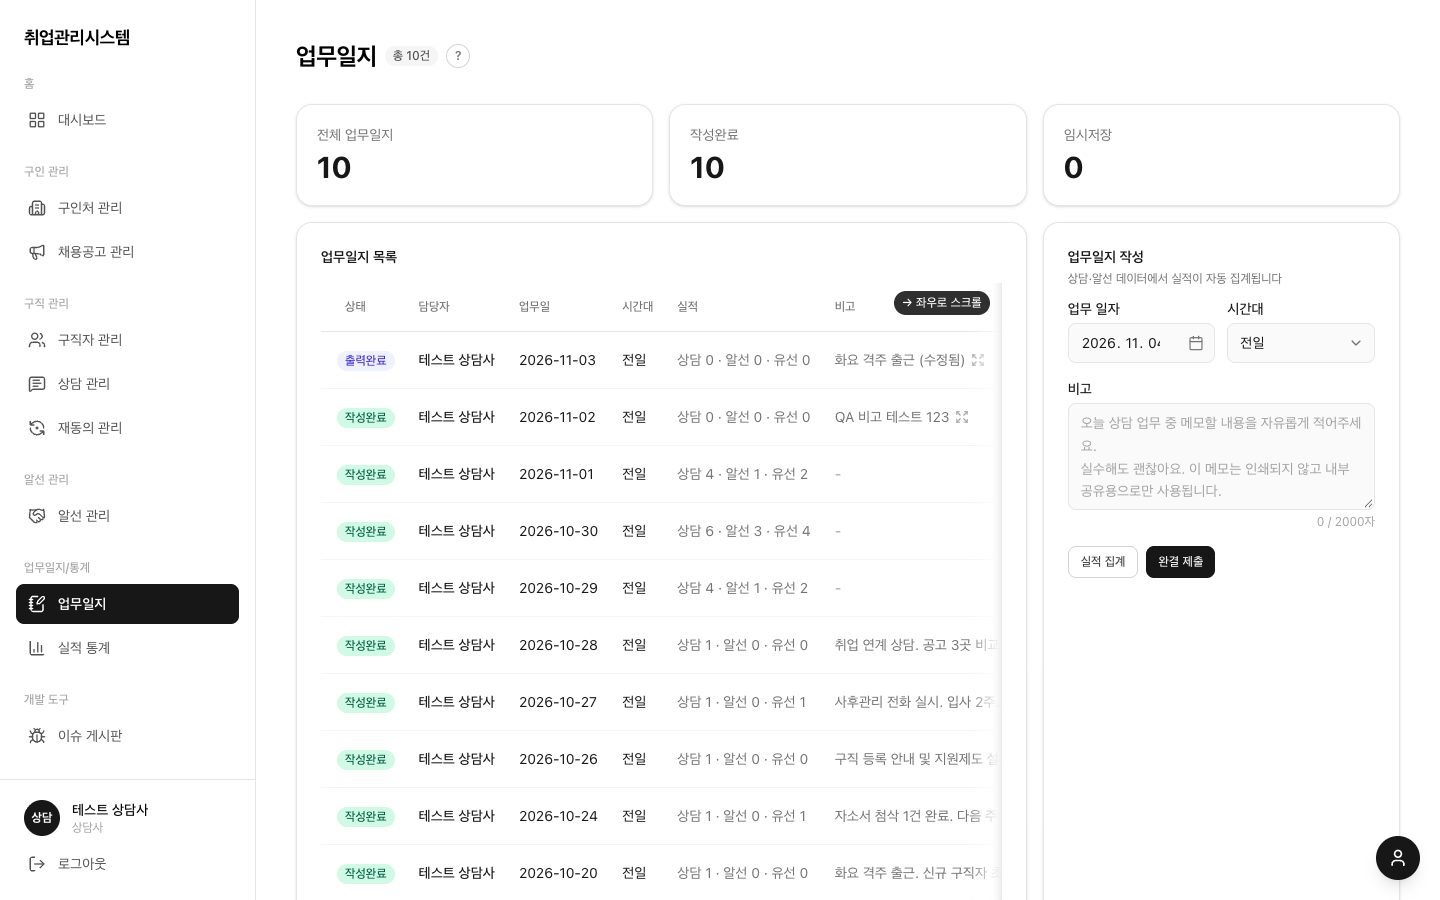
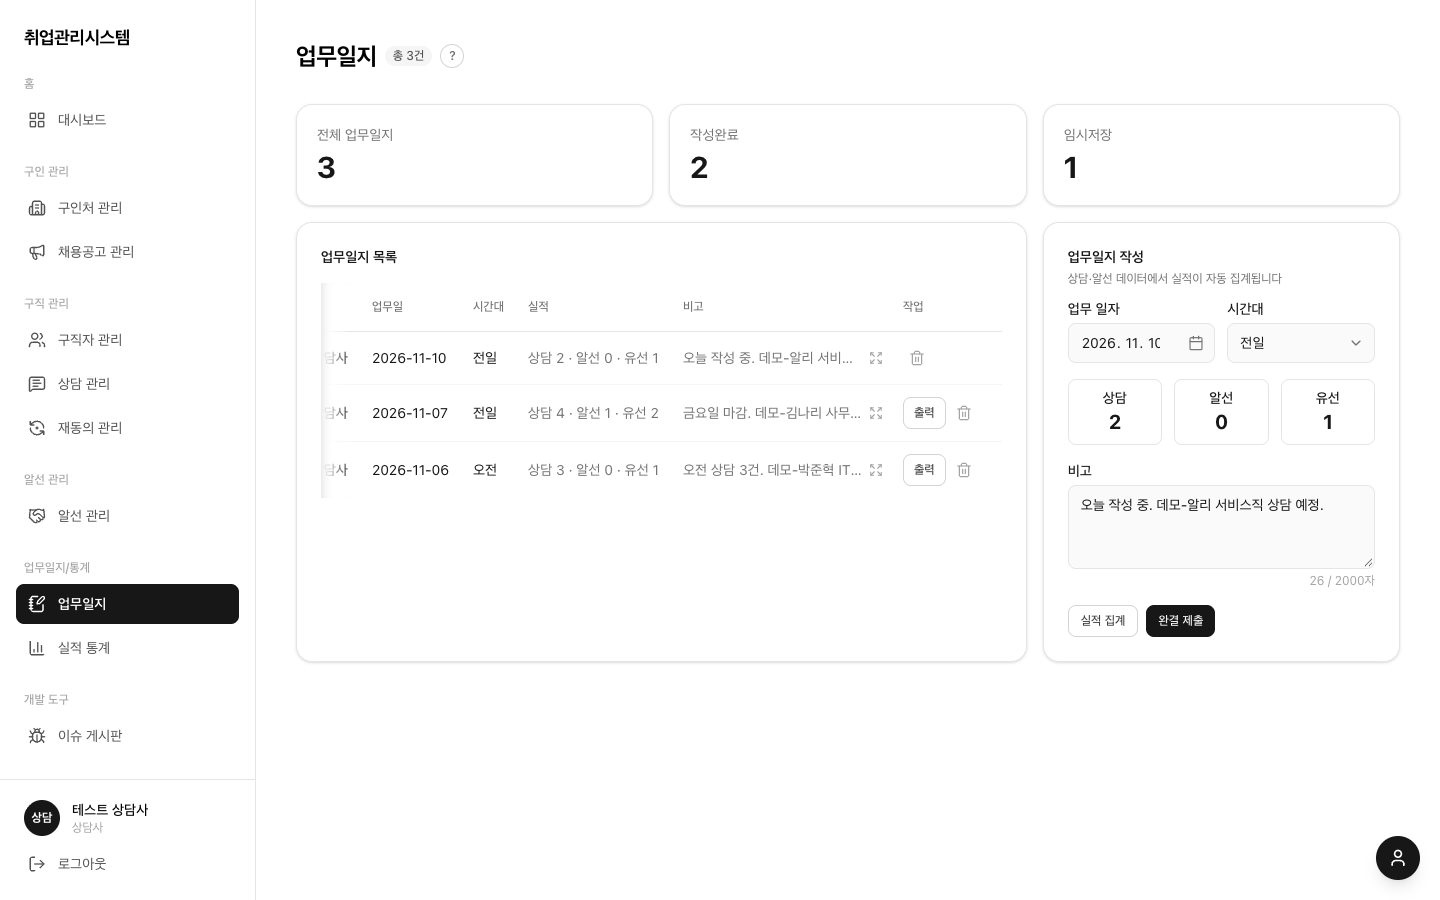
docs(mcfamily-job): 상담·업무일지 삭제 반영 + 업무일지 캡처 갱신

diff --git a/src/content/docs/mcfamily-job/screens/09-worklogs.md b/src/content/docs/mcfamily-job/screens/09-worklogs.md
@@ -8,11 +8,12 @@ title: 1.9 업무일지
 
 ## 이 화면에서 할 수 있는 일 (역할별)
 
-| 행위 | 상담사 | 담당자·관리자·마스터 |
-|:---|:---:|:---:|
-| 작성·완결 제출·정정 | ○ | ✕ (작성 폼 미노출) |
-| 목록 조회·출력(인쇄) | ○ | ○ |
-| 비고 저장 (제출 후에도 가능) | ○ | ✕ |
+| 행위 | 상담사 | 담당자·마스터 | 관리자·팀장 |
+|:---|:---:|:---:|:---:|
+| 작성·완결 제출·정정 | ○ | ✕ (작성 폼 미노출) | ✕ |
+| 목록 조회·출력(인쇄) | ○ (본인) | ○ (전체) | ○ (조회 전용) |
+| 비고 저장 (제출 후에도 가능) | ○ | ✕ | ✕ |
+| 삭제 (완결 건 포함) | ○ (본인) | ○ (전체) | ✕ |
 
 좌측 메뉴 **업무일지**를 클릭합니다. 상단 카드 3개(전체·작성완료·임시저장) + 업무일지 목록(10건/페이지) + 우측 업무일지 작성 폼으로 구성됩니다. 목록 열은 상태 · 담당자 · 업무일 · 시간대 · 실적(상담·알선·유선) · 비고 · 작업입니다.
 
@@ -23,3 +24,4 @@ title: 1.9 업무일지
 - **완결 제출과 잠금**: 제출하면 입력 폼이 잠기고 다시 제출할 수 없습니다. 고쳐야 할 때는 **정정하기**로 정정 모드를 열어 저장합니다 (정정 이력이 감사 로그에 남습니다)
 - **비고**: 제출 후에도 비고만 따로 저장할 수 있습니다
 - **출력**: 목록 작업 열의 출력 버튼을 누르면 실제 양식 그대로 미리보기 새 창이 뜨고, 인쇄 확인 후 출력합니다. 출력한 일지는 상태가 **출력완료**(최초 출력 시각 표시)로 바뀝니다
+- **삭제**: 목록 작업 열의 휴지통 버튼 (본인·담당자·마스터). 완결 제출된 일지도 삭제할 수 있으며, 삭제 내역은 감사 로그에 남습니다

diff --git a/src/content/docs/mcfamily-job/screens/06-supports.md b/src/content/docs/mcfamily-job/screens/06-supports.md
@@ -11,6 +11,7 @@ title: 1.6 상담 관리
 | 예약 등록·수정·취소/노쇼 | 본인 담당만 | 전체 (담당자 변경·취소 제어) | ✕ (조회만 가능) | ✕ (조회만 가능) |
 | 상담 기록 작성 (`/supports/create`) | 본인 담당 위주 | 전체 | ✕ | ○ |
 | 상담 기록 수정 (`/supports/{id}`) | 본인 작성·7일 이내만 | 본인 작성·7일 이내만 | ✕ | ○ (전체) |
+| 상담 기록 삭제 (완결 포함) | 본인 담당만 | ○ (전체) | ✕ | ○ (전체) |
 | 목록 엑셀 다운로드 | ✕ | ○ | ○ | ○ |
 
 좌측 메뉴 **상담 관리**를 클릭합니다. 상단 헤더(총 건수 + 도움말 `?` + 엑셀/예약 추가/상담 추가 버튼), ① 오늘의 상담 일정, ② 상담 이력(메인 표) 순으로 표시됩니다.
@@ -44,6 +45,7 @@ title: 1.6 상담 관리
 - **30초 자동 임시저장**: 작성 중 30초마다 자동 저장되고 브라우저에 7일간 보관됩니다 (7일 경과 시 자동 폐기). 완료 처리되면 임시저장은 삭제됩니다
 - 상담 완료 시 **실적 1건**으로 자동 집계되고, 예약에서 시작한 경우 예약과의 연결은 감사 로그 1건으로만 남습니다 (`supports`에 예약키를 저장하지 않음). 예약 종료에 실패해도 기록은 유지되고 화면에 경고가 표시됩니다
 - 유선 재동의 연락 결과를 기록하면 상담 실적 1건(사후상담 유형)으로 자동 반영됩니다
+- **삭제**: 상세 화면 우측 상단 삭제 버튼 (본인 담당·담당자·마스터). 완료된 기록도 삭제할 수 있으며, 삭제 내역은 감사 로그에 남습니다. 삭제된 기록은 실적 집계에서 제외됩니다
 
 ## ④ 업무일지 반영 확인
 
